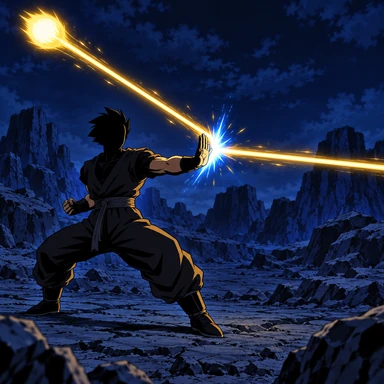
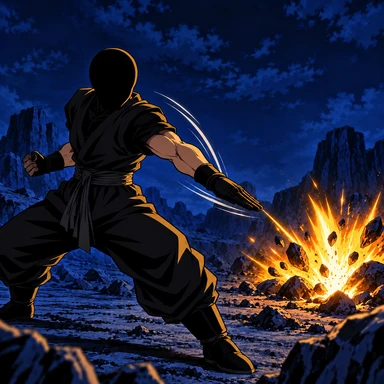
Refine guard gloves and swatted-blast deflection artwork

diff --git a/index.html b/index.html
@@ -3,17 +3,17 @@
 <meta charset="utf-8"><meta name="viewport" content="width=device-width,initial-scale=1,viewport-fit=cover"><meta name="theme-color" content="#ef7914"><meta name="apple-mobile-web-app-capable" content="yes"><meta name="apple-mobile-web-app-status-bar-style" content="black-translucent">
 <meta name="description" content="A new world. A new you. Zero's Dragon Ball Isekai adventure.">
 <title>Dragon Ball Stories</title>
-<link rel="icon" type="image/svg+xml" href="./dragon-ball.svg?v=e2182d8f4c63ecb0153295ae"><link rel="apple-touch-icon" href="./icon-180.png?v=e2182d8f4c63ecb0153295ae"><link rel="manifest" href="./app.webmanifest?v=e2182d8f4c63ecb0153295ae"><link rel="preload" href="./bangers.ttf?v=e2182d8f4c63ecb0153295ae" as="font" type="font/ttf" crossorigin><link rel="stylesheet" href="./styles.css?v=e2182d8f4c63ecb0153295ae"><link rel="stylesheet" href="./world.css?v=e2182d8f4c63ecb0153295ae"><script src="./updates.js?v=e2182d8f4c63ecb0153295ae" defer></script><script src="./music.js?v=e2182d8f4c63ecb0153295ae" defer></script><script src="./app.js?v=e2182d8f4c63ecb0153295ae" defer></script>
-<link rel="stylesheet" href="./interaction.css?v=e2182d8f4c63ecb0153295ae"><script src="./interaction.js?v=e2182d8f4c63ecb0153295ae" defer></script>
-<link rel="stylesheet" href="./collection.css?v=e2182d8f4c63ecb0153295ae">
-<link rel="stylesheet" href="./content.css?v=e2182d8f4c63ecb0153295ae">
-<meta name="app-release" content="e2182d8f4c63ecb0153295ae">
-<script src="./launch.js?v=e2182d8f4c63ecb0153295ae" defer></script></head><body data-page="overview" class="launch-pending">
+<link rel="icon" type="image/svg+xml" href="./dragon-ball.svg?v=d6ca446ff52eb6596288a6f2"><link rel="apple-touch-icon" href="./icon-180.png?v=d6ca446ff52eb6596288a6f2"><link rel="manifest" href="./app.webmanifest?v=d6ca446ff52eb6596288a6f2"><link rel="preload" href="./bangers.ttf?v=d6ca446ff52eb6596288a6f2" as="font" type="font/ttf" crossorigin><link rel="stylesheet" href="./styles.css?v=d6ca446ff52eb6596288a6f2"><link rel="stylesheet" href="./world.css?v=d6ca446ff52eb6596288a6f2"><script src="./updates.js?v=d6ca446ff52eb6596288a6f2" defer></script><script src="./music.js?v=d6ca446ff52eb6596288a6f2" defer></script><script src="./app.js?v=d6ca446ff52eb6596288a6f2" defer></script>
+<link rel="stylesheet" href="./interaction.css?v=d6ca446ff52eb6596288a6f2"><script src="./interaction.js?v=d6ca446ff52eb6596288a6f2" defer></script>
+<link rel="stylesheet" href="./collection.css?v=d6ca446ff52eb6596288a6f2">
+<link rel="stylesheet" href="./content.css?v=d6ca446ff52eb6596288a6f2">
+<meta name="app-release" content="d6ca446ff52eb6596288a6f2">
+<script src="./launch.js?v=d6ca446ff52eb6596288a6f2" defer></script></head><body data-page="overview" class="launch-pending">
 <dialog id="launch-dialog" class="wish-screen" open aria-labelledby="launch-title"><div class="wish-grain" aria-hidden="true"></div><div class="wish-content"><h1 id="launch-title">DRAGON BALL<span>STORIES</span></h1><button id="launch-adventure" class="wish-trigger" aria-label="Launch your adventure"><svg class="wish-orbit" viewBox="0 0 520 520" aria-hidden="true"><defs><radialGradient id="wish-halo"><stop stop-color="#fffdf0" stop-opacity="1"/><stop offset=".4" stop-color="#fff2a3" stop-opacity=".85"/><stop offset="1" stop-color="#fff2a3" stop-opacity="0"/></radialGradient><radialGradient id="wish-flare"><stop stop-color="#fffef3"/><stop offset=".7" stop-color="#fff4bf"/><stop offset="1" stop-color="#fff4bf" stop-opacity="0"/></radialGradient><radialGradient id="orb" cx="34%" cy="26%" r="76%"><stop stop-color="#fff7b4"/><stop offset=".32" stop-color="#ffcd43"/><stop offset=".72" stop-color="#f58a08"/><stop offset="1" stop-color="#c55005"/></radialGradient></defs><circle class="orbit-guide" cx="260" cy="260" r="179"/><circle class="orbit-guide inner" cx="260" cy="260" r="123"/><g class="wish-ball" style="--ball:0" transform="translate(260.000 81.000)"><g class="ball-flight"><circle class="ball-aura" r="85" fill="url(#wish-halo)"/><circle r="35" fill="url(#orb)" stroke="#7e300d" stroke-width="2"/><g fill="#b72b18"><polygon points="0.00,-5.00 1.26,-1.74 4.76,-1.55 2.04,0.66 2.94,4.05 0.00,2.15 -2.94,4.05 -2.04,0.66 -4.76,-1.55 -1.26,-1.74"/></g><circle class="ball-flare" r="37" fill="url(#wish-flare)"/></g></g><g class="wish-ball" style="--ball:1" transform="translate(399.948 148.395)"><g class="ball-flight"><circle class="ball-aura" r="85" fill="url(#wish-halo)"/><circle r="35" fill="url(#orb)" stroke="#7e300d" stroke-width="2"/><g fill="#b72b18"><polygon points="-8.00,-5.00 -6.74,-1.74 -3.24,-1.55 -5.96,0.66 -5.06,4.05 -8.00,2.15 -10.94,4.05 -10.04,0.66 -12.76,-1.55 -9.26,-1.74"/><polygon points="8.00,-5.00 9.26,-1.74 12.76,-1.55 10.04,0.66 10.94,4.05 8.00,2.15 5.06,4.05 5.96,0.66 3.24,-1.55 6.74,-1.74"/></g><circle class="ball-flare" r="37" fill="url(#wish-flare)"/></g></g><g class="wish-ball" style="--ball:2" transform="translate(434.512 299.831)"><g class="ball-flight"><circle class="ball-aura" r="85" fill="url(#wish-halo)"/><circle r="35" fill="url(#orb)" stroke="#7e300d" stroke-width="2"/><g fill="#b72b18"><polygon points="0.00,-13.00 1.26,-9.74 4.76,-9.55 2.04,-7.34 2.94,-3.95 0.00,-5.85 -2.94,-3.95 -2.04,-7.34 -4.76,-9.55 -1.26,-9.74"/><polygon points="-9.00,2.00 -7.74,5.26 -4.24,5.45 -6.96,7.66 -6.06,11.05 -9.00,9.15 -11.94,11.05 -11.04,7.66 -13.76,5.45 -10.26,5.26"/><polygon points="9.00,2.00 10.26,5.26 13.76,5.45 11.04,7.66 11.94,11.05 9.00,9.15 6.06,11.05 6.96,7.66 4.24,5.45 7.74,5.26"/></g><circle class="ball-flare" r="37" fill="url(#wish-flare)"/></g></g><g class="wish-ball" style="--ball:3" transform="translate(337.665 421.273)"><g class="ball-flight"><circle class="ball-aura" r="85" fill="url(#wish-halo)"/><circle r="35" fill="url(#orb)" stroke="#7e300d" stroke-width="2"/><g fill="#b72b18"><polygon points="-8.00,-13.00 -6.74,-9.74 -3.24,-9.55 -5.96,-7.34 -5.06,-3.95 -8.00,-5.85 -10.94,-3.95 -10.04,-7.34 -12.76,-9.55 -9.26,-9.74"/><polygon points="8.00,-13.00 9.26,-9.74 12.76,-9.55 10.04,-7.34 10.94,-3.95 8.00,-5.85 5.06,-3.95 5.96,-7.34 3.24,-9.55 6.74,-9.74"/><polygon points="-8.00,3.00 -6.74,6.26 -3.24,6.45 -5.96,8.66 -5.06,12.05 -8.00,10.15 -10.94,12.05 -10.04,8.66 -12.76,6.45 -9.26,6.26"/><polygon points="8.00,3.00 9.26,6.26 12.76,6.45 10.04,8.66 10.94,12.05 8.00,10.15 5.06,12.05 5.96,8.66 3.24,6.45 6.74,6.26"/></g><circle class="ball-flare" r="37" fill="url(#wish-flare)"/></g></g><g class="wish-ball" style="--ball:4" transform="translate(182.335 421.273)"><g class="ball-flight"><circle class="ball-aura" r="85" fill="url(#wish-halo)"/><circle r="35" fill="url(#orb)" stroke="#7e300d" stroke-width="2"/><g fill="#b72b18"><polygon points="-10.00,-15.00 -8.74,-11.74 -5.24,-11.55 -7.96,-9.34 -7.06,-5.95 -10.00,-7.85 -12.94,-5.95 -12.04,-9.34 -14.76,-11.55 -11.26,-11.74"/><polygon points="10.00,-15.00 11.26,-11.74 14.76,-11.55 12.04,-9.34 12.94,-5.95 10.00,-7.85 7.06,-5.95 7.96,-9.34 5.24,-11.55 8.74,-11.74"/><polygon points="0.00,-5.00 1.26,-1.74 4.76,-1.55 2.04,0.66 2.94,4.05 0.00,2.15 -2.94,4.05 -2.04,0.66 -4.76,-1.55 -1.26,-1.74"/><polygon points="-10.00,5.00 -8.74,8.26 -5.24,8.45 -7.96,10.66 -7.06,14.05 -10.00,12.15 -12.94,14.05 -12.04,10.66 -14.76,8.45 -11.26,8.26"/><polygon points="10.00,5.00 11.26,8.26 14.76,8.45 12.04,10.66 12.94,14.05 10.00,12.15 7.06,14.05 7.96,10.66 5.24,8.45 8.74,8.26"/></g><circle class="ball-flare" r="37" fill="url(#wish-flare)"/></g></g><g class="wish-ball" style="--ball:5" transform="translate(85.488 299.831)"><g class="ball-flight"><circle class="ball-aura" r="85" fill="url(#wish-halo)"/><circle r="35" fill="url(#orb)" stroke="#7e300d" stroke-width="2"/><g fill="#b72b18"><polygon points="-10.00,-16.00 -8.74,-12.74 -5.24,-12.55 -7.96,-10.34 -7.06,-6.95 -10.00,-8.85 -12.94,-6.95 -12.04,-10.34 -14.76,-12.55 -11.26,-12.74"/><polygon points="10.00,-16.00 11.26,-12.74 14.76,-12.55 12.04,-10.34 12.94,-6.95 10.00,-8.85 7.06,-6.95 7.96,-10.34 5.24,-12.55 8.74,-12.74"/><polygon points="-10.00,-5.00 -8.74,-1.74 -5.24,-1.55 -7.96,0.66 -7.06,4.05 -10.00,2.15 -12.94,4.05 -12.04,0.66 -14.76,-1.55 -11.26,-1.74"/><polygon points="10.00,-5.00 11.26,-1.74 14.76,-1.55 12.04,0.66 12.94,4.05 10.00,2.15 7.06,4.05 7.96,0.66 5.24,-1.55 8.74,-1.74"/><polygon points="-10.00,6.00 -8.74,9.26 -5.24,9.45 -7.96,11.66 -7.06,15.05 -10.00,13.15 -12.94,15.05 -12.04,11.66 -14.76,9.45 -11.26,9.26"/><polygon points="10.00,6.00 11.26,9.26 14.76,9.45 12.04,11.66 12.94,15.05 10.00,13.15 7.06,15.05 7.96,11.66 5.24,9.45 8.74,9.26"/></g><circle class="ball-flare" r="37" fill="url(#wish-flare)"/></g></g><g class="wish-ball" style="--ball:6" transform="translate(120.052 148.395)"><g class="ball-flight"><circle class="ball-aura" r="85" fill="url(#wish-halo)"/><circle r="35" fill="url(#orb)" stroke="#7e300d" stroke-width="2"/><g fill="#b72b18"><polygon points="0.00,-5.00 1.26,-1.74 4.76,-1.55 2.04,0.66 2.94,4.05 0.00,2.15 -2.94,4.05 -2.04,0.66 -4.76,-1.55 -1.26,-1.74"/><polygon points="16.00,-5.00 17.26,-1.74 20.76,-1.55 18.04,0.66 18.94,4.05 16.00,2.15 13.06,4.05 13.96,0.66 11.24,-1.55 14.74,-1.74"/><polygon points="8.00,8.86 9.26,12.12 12.76,12.31 10.04,14.52 10.94,17.90 8.00,16.01 5.06,17.90 5.96,14.52 3.24,12.31 6.74,12.12"/><polygon points="-8.00,8.86 -6.74,12.12 -3.24,12.31 -5.96,14.52 -5.06,17.90 -8.00,16.01 -10.94,17.90 -10.04,14.52 -12.76,12.31 -9.26,12.12"/><polygon points="-16.00,-5.00 -14.74,-1.74 -11.24,-1.55 -13.96,0.66 -13.06,4.05 -16.00,2.15 -18.94,4.05 -18.04,0.66 -20.76,-1.55 -17.26,-1.74"/><polygon points="-8.00,-18.86 -6.74,-15.60 -3.24,-15.40 -5.96,-13.19 -5.06,-9.81 -8.00,-11.71 -10.94,-9.81 -10.04,-13.19 -12.76,-15.40 -9.26,-15.60"/><polygon points="8.00,-18.86 9.26,-15.60 12.76,-15.40 10.04,-13.19 10.94,-9.81 8.00,-11.71 5.06,-9.81 5.96,-13.19 3.24,-15.40 6.74,-15.60"/></g><circle class="ball-flare" r="37" fill="url(#wish-flare)"/></g></g></svg><span class="wish-center"><span class="wish-mark"><span class="wish-touch-glow" aria-hidden="true"></span><span class="wish-glyph">願</span></span><span class="wish-invite">TAP TO BEGIN</span></span></button></div></dialog>
 
 <div class="scene" aria-hidden="true"></div><div class="scene-shade" aria-hidden="true"></div><div class="motes" aria-hidden="true"><i></i><i></i><i></i><i></i><i></i></div>
 <a class="skip-link" href="#main">Skip to content</a>
-<header class="game-header"><a class="brand" href="#overview" aria-label="Dragon Ball Stories home"><img src="./dragon-ball.svg?v=e2182d8f4c63ecb0153295ae" width="34" height="34" alt=""><span>DB <b>STORIES</b></span></a><nav id="navigation" aria-label="Main navigation"></nav><div class="header-tools"><button class="hud-button" data-search aria-label="Search your adventure"><svg viewBox="0 0 24 24" aria-hidden="true"><circle cx="10" cy="10" r="6"/><path d="m15 15 5 5"/></svg></button><span class="player-chip"><strong class="user-chip">Zero</strong></span></div></header>
+<header class="game-header"><a class="brand" href="#overview" aria-label="Dragon Ball Stories home"><img src="./dragon-ball.svg?v=d6ca446ff52eb6596288a6f2" width="34" height="34" alt=""><span>DB <b>STORIES</b></span></a><nav id="navigation" aria-label="Main navigation"></nav><div class="header-tools"><button class="hud-button" data-search aria-label="Search your adventure"><svg viewBox="0 0 24 24" aria-hidden="true"><circle cx="10" cy="10" r="6"/><path d="m15 15 5 5"/></svg></button><span class="player-chip"><strong class="user-chip">Zero</strong></span></div></header>
 <main id="main" tabindex="-1"><div class="loading" role="status">Your adventure is loading…</div></main>
 <footer class="game-footer"><div class="control-hints"><span><kbd>↑ ↓</kbd> Navigate</span><span><kbd>Enter</kbd> Select</span><span><kbd>Esc</kbd> Main Menu</span></div><span id="campaign-status">Loading story records…</span><div class="preferences"><button id="music-toggle" aria-pressed="true">Music on</button><button id="sound-toggle" aria-pressed="true">Sound on</button><button id="motion-toggle" aria-pressed="false">Motion on</button><button data-about>About</button></div></footer>
 <div id="update-notice" class="update-notice" role="status" aria-live="polite" hidden></div>

diff --git a/styles.css b/styles.css
@@ -1,6 +1,6 @@
-@font-face{font-family:Bangers;src:url('./bangers.ttf?v=e2182d8f4c63ecb0153295ae') format('truetype');font-display:swap}
+@font-face{font-family:Bangers;src:url('./bangers.ttf?v=d6ca446ff52eb6596288a6f2') format('truetype');font-display:swap}
 :root{--ink:#11343d;--paper:#fff9e9;--yellow:#ffdd47;--orange:#ffa21c;--muted:#557568;font:15px 'Segoe UI',Arial,sans-serif;color:var(--ink);color-scheme:light}*{box-sizing:border-box;-webkit-tap-highlight-color:transparent}body{margin:0;min-width:300px;background:#153b43;isolation:isolate}button,input,textarea{font:inherit}button,a,summary{touch-action:manipulation}button{cursor:pointer;color:inherit}a{color:inherit;text-decoration:none}h1,h2,h3,p{margin:0}h1,h2,.brand,.menu-title,.stage-name{font-family:Bangers,'Arial Black',sans-serif;font-weight:400;letter-spacing:1px}p{line-height:1.65}em{font-style:normal}svg{width:24px;height:24px;fill:none;stroke:currentColor;stroke-width:1.8;stroke-linecap:round;stroke-linejoin:round;flex-shrink:0}img{max-width:100%}button:focus-visible,a:focus-visible,input:focus-visible,summary:focus-visible,textarea:focus-visible{outline:3px solid #16c7d2;outline-offset:5px}[hidden]{display:none!important}.sr-only{position:absolute;width:1px;height:1px;overflow:hidden;clip:rect(0,0,0,0)}.skip-link{position:fixed;left:15px;top:-80px;z-index:100;background:var(--yellow);padding:15px}.skip-link:focus{top:15px}
-.scene,.scene-shade,.motes{position:fixed;inset:0;pointer-events:none}.scene{z-index:-3;background:url('./menu-world.webp?v=e2182d8f4c63ecb0153295ae') center/cover no-repeat;animation:drift 30s ease-in-out infinite alternate;transform:scale(1.025)}.scene-shade{z-index:-2;background:linear-gradient(90deg,#05242e80,transparent 54%),linear-gradient(0deg,#06232eef,transparent 65%)}body:not([data-page=overview]) .scene-shade{background:linear-gradient(110deg,#03202de6,#093e43bd)}.motes{z-index:-1;overflow:hidden}.motes i{position:absolute;width:5px;height:5px;left:20%;top:100%;border-radius:50%;background:#fff7a3;box-shadow:0 0 18px #ffffa4;animation:float-up 16s linear infinite}.motes i:nth-child(2){left:65%;animation-delay:-4s}.motes i:nth-child(3){left:43%;animation-delay:-11s}.motes i:nth-child(4){left:84%;animation-delay:-7s}.motes i:nth-child(5){left:9%;animation-delay:-14s}
+.scene,.scene-shade,.motes{position:fixed;inset:0;pointer-events:none}.scene{z-index:-3;background:url('./menu-world.webp?v=d6ca446ff52eb6596288a6f2') center/cover no-repeat;animation:drift 30s ease-in-out infinite alternate;transform:scale(1.025)}.scene-shade{z-index:-2;background:linear-gradient(90deg,#05242e80,transparent 54%),linear-gradient(0deg,#06232eef,transparent 65%)}body:not([data-page=overview]) .scene-shade{background:linear-gradient(110deg,#03202de6,#093e43bd)}.motes{z-index:-1;overflow:hidden}.motes i{position:absolute;width:5px;height:5px;left:20%;top:100%;border-radius:50%;background:#fff7a3;box-shadow:0 0 18px #ffffa4;animation:float-up 16s linear infinite}.motes i:nth-child(2){left:65%;animation-delay:-4s}.motes i:nth-child(3){left:43%;animation-delay:-11s}.motes i:nth-child(4){left:84%;animation-delay:-7s}.motes i:nth-child(5){left:9%;animation-delay:-14s}
 .game-header{min-height:78px;padding:16px 38px;display:flex;align-items:center;gap:28px;color:white;border-bottom:1px solid #ffffff24;background:linear-gradient(#06334270,#083b4910);position:relative;z-index:2}.brand{display:flex;align-items:center;gap:10px;white-space:nowrap;font-size:24px;transform:rotate(-2deg)}.brand b{font-weight:400;color:var(--yellow)}.brand img{filter:drop-shadow(2px 3px 0 #123e43)}.header-tools{margin-left:auto;display:flex;align-items:center;gap:24px}.hud-button{display:grid;place-items:center;border:1px solid #ffffff55;border-radius:50%;background:#113b456b;color:white;width:40px;height:40px}.hud-button:hover{color:var(--ink);background:var(--yellow)}.player-chip{display:grid;line-height:1.2;border-left:2px solid var(--orange);padding-left:12px;min-width:74px}.player-chip>span{font-size:9px;letter-spacing:2px;color:#d4edf0}.player-chip strong{font-size:19px;overflow-wrap:anywhere}#navigation{display:flex;gap:5px;align-items:center}.nav-link{display:flex;gap:7px;align-items:center;padding:10px 13px;font-size:12px;font-weight:750;transition:transform .15s,background .15s}.nav-link svg{width:17px;height:17px}.nav-link:hover,.nav-link[aria-current]{background:var(--yellow);color:var(--ink);transform:skew(-5deg)}body[data-page=overview] #navigation{display:none}body[data-page=overview] .brand{font-size:20px;opacity:.8}
 #main{max-width:1440px;margin:auto;min-height:calc(100svh - 132px);padding:32px 54px 40px;outline:0}body[data-page=overview] #main{padding:0;max-width:none}.title-screen{min-height:calc(100svh - 132px);display:grid;grid-template-columns:440px 1fr;padding:28px 6vw 48px;gap:60px;position:relative}.menu-column{position:relative;z-index:1}.title-logo{transform:rotate(-3deg);margin:5px 0 34px 12px;width:max-content;max-width:100%}.logo-kicker{display:block;font-size:10px;font-weight:800;letter-spacing:5px;color:white;margin:0 0 8px 8px;text-shadow:0 1px 3px #12303c}.title-logo h1{line-height:.91;filter:drop-shadow(3px 5px 0 #0b2e36)}.title-logo h1>span{display:block;font-size:clamp(46px,4.6vw,72px);color:var(--yellow);-webkit-text-stroke:1px #63331c;paint-order:stroke fill}.title-logo em{color:#ff961a}.title-logo h1 strong{display:block;font-size:clamp(79px,7.9vw,120px);font-weight:400;letter-spacing:10px;color:white;-webkit-text-stroke:1px #123d46;paint-order:stroke fill}.logo-rule{display:block;background:var(--yellow);padding:5px 10px;margin:9px 0 0 3px;font-size:9px;font-weight:900;letter-spacing:3px;box-shadow:3px 3px 0 #12343c;transform:skew(-8deg)}.game-menu{display:flex;flex-direction:column;gap:13px;max-width:360px}.menu-choice{position:relative;display:flex;align-items:center;gap:14px;padding:8px 24px 9px 16px;min-height:59px;color:white;isolation:isolate;transition:transform .17s,color .17s;outline-offset:8px!important}.menu-choice:before{content:'';position:absolute;inset:0;z-index:-1;background:#10353bed;transform:skew(-10deg);border:1px solid #c8ebdf61;border-left:5px solid #78dacc;box-shadow:5px 6px 0 #001b283a;transition:background .15s}.menu-title{font-size:31px;letter-spacing:1.5px}.menu-number{font-size:10px;font-weight:800;align-self:flex-start;padding-top:5px;opacity:.6}.menu-choice svg{width:22px;height:22px}.menu-arrow{margin-left:auto;font-size:37px;line-height:1}.menu-description{position:absolute;left:58px;top:44px;font-size:10px;font-weight:750;opacity:1;white-space:nowrap}.menu-choice:active{transform:scale(.99)}
 .home-feature{align-self:end;justify-self:end;max-width:480px;color:white;margin-bottom:35px;text-shadow:0 3px 10px #173d42}.chapter-tag{display:inline-block;font-size:10px;font-weight:900;letter-spacing:2px;padding:8px 12px;background:var(--ink);color:var(--yellow);border-left:4px solid var(--orange);text-shadow:none;transform:skew(-6deg)}.home-feature h2{font-size:clamp(48px,5.4vw,78px);line-height:.98;margin:18px 0 14px;transform:rotate(-2deg);text-shadow:3px 4px 0 #12434a,0 4px 30px #073e41}.home-feature h2 em{color:var(--yellow)}.home-feature p{font-size:16px;max-width:380px;font-weight:600;margin-bottom:23px}.primary{display:inline-flex;align-items:center;justify-content:center;gap:22px;background:linear-gradient(110deg,#ffb21e,#ffe064);border:0;border-bottom:4px solid #c4780c;padding:15px 24px;font-size:13px;font-weight:850;box-shadow:4px 4px 0 #112f3945;color:var(--ink);text-shadow:none;max-width:100%;transition:transform .15s,filter .15s}.primary:hover{transform:translateY(-3px);filter:brightness(1.08)}.primary:active{transform:translateY(1px);box-shadow:none}.primary svg{width:19px;height:19px}.launch-button{transform:skew(-5deg)}.launch-button:hover{transform:skew(-5deg) translateY(-3px)}.scene-caption{position:absolute;bottom:16px;right:6vw;font-size:8px;letter-spacing:1.5px;color:#cae5d7b8}.game-footer{min-height:54px;display:flex;align-items:center;gap:20px;justify-content:space-between;padding:13px 38px;background:#082b34e8;color:#deeee6;border-top:1px solid #88cec447;font-size:10px}.control-hints{display:flex;gap:20px}.control-hints span{display:flex;gap:7px;align-items:center}kbd{font:inherit;font-weight:800;border:1px solid #a9c9c580;min-width:23px;text-align:center;padding:3px 5px;box-shadow:0 2px 0 #0004}.preferences{display:flex;gap:15px}.preferences button{font-size:10px;padding:6px 0;color:inherit;background:none;border:0;border-bottom:1px solid transparent}.preferences button:hover,.preferences button[aria-pressed=true]{color:var(--yellow);border-bottom-color:currentColor}#campaign-status{font-size:9px;text-transform:uppercase;letter-spacing:1.5px;color:#d0e8dc}
